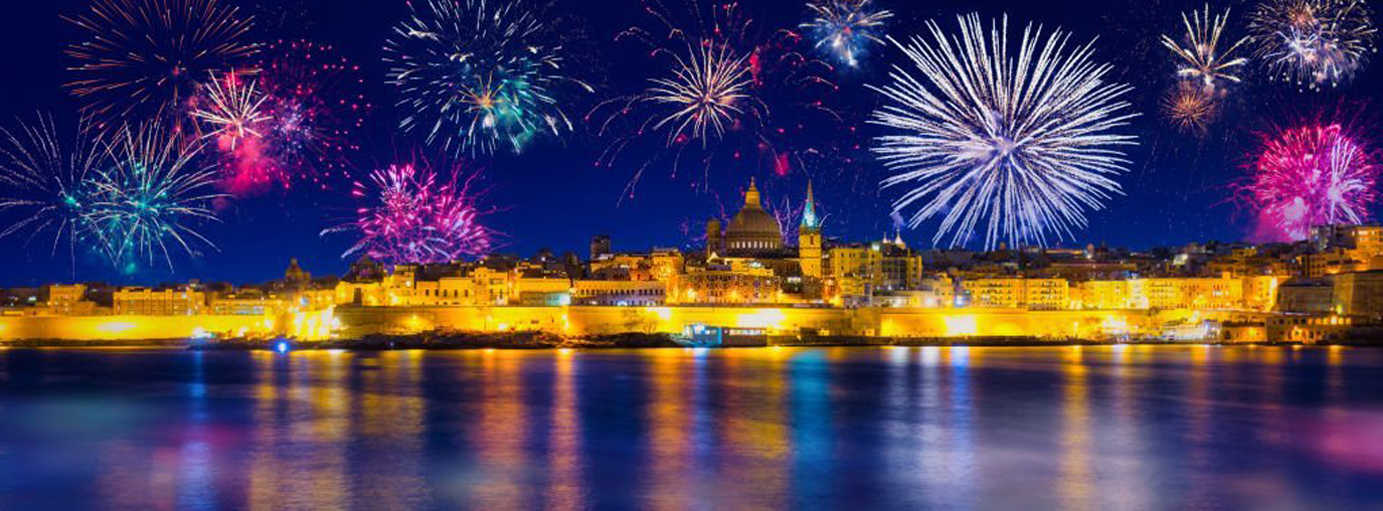
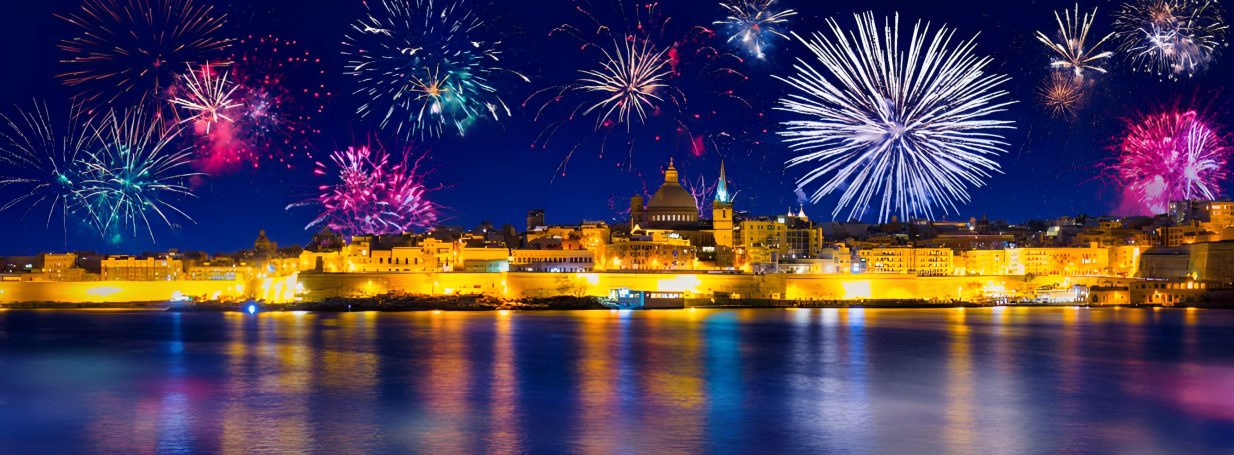
Image Changes

diff --git a/assets/css/about.css b/assets/css/about.css
@@ -43,7 +43,7 @@ h2 {
   flex-direction: column;
   padding-top: 180px;
   min-height: 90vh;
-  background-image: url("../images/about/about-banner.jpg");
+  background-image: url("../images/about/about-banner.png");
   background-repeat: no-repeat;
   background-size: cover;
   background-position: center;

diff --git a/assets/css/sectors.css b/assets/css/sectors.css
@@ -14,7 +14,7 @@
 .sectors-page-hero-container{
     width: 100%;
     min-height: 80vh;
-    background-image: url(../images/sectors/sector-bg.jpg);
+    background-image: url(../images/sectors/sector-bg.png);
     background-size: cover;
     background-position: center;
 }

diff --git a/assets/css/service.css b/assets/css/service.css
@@ -20,7 +20,7 @@
   flex-direction: column;
   padding-top: 180px;
   min-height: 100vh;
-  background-image: url(../images/services/bg.jpg);
+  background-image: url(../images/services/bg.png);
   background-size: cover;
 }
 
